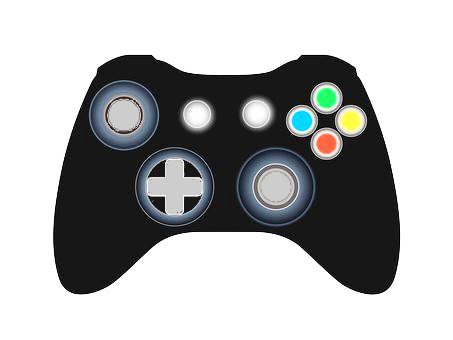
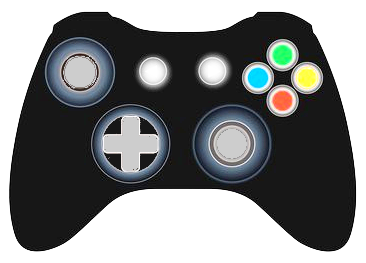
Unified width

diff --git a/src/App.tsx b/src/App.tsx
@@ -1,7 +1,8 @@
 import { useEffect, useState, useRef } from 'react';
-// import testImage from './assets/game_icon.png';
 // import testImage from './assets/computer_laptop.png';
-import testImage from './assets/kawahara.png';
+// import testImage from './assets/game_icon.png';
+import testImage from './assets/ai_icon.png';
+// import testImage from './assets/kawahara.png';
 import { generateStars, Star } from './hanabi';
 
 export default function App(){
@@ -28,26 +29,25 @@ export default function App(){
         // 画像を読み込み、canvasに描画
         const img = new Image();
         img.onload = () => {
-            // 元の画像の大きさ
+            // 元の画像の比率を保持したまま横幅を300pxに設定
             const originalWidth = img.width;
             const originalHeight = img.height;
-
-            // 新しい横幅と高さを計算
             const newWidth = 300;
             const newHeight = (originalHeight * newWidth) / originalWidth;
-            console.log({newHeight})
 
             // canvasの大きさを新しい大きさに合わせる
             canvas.width = newWidth;
             canvas.height = newHeight;
+
+            // 画像のリサイズと中心点の調整をして描画
             ctx.drawImage(img, 0, 0, newWidth, newHeight);
 
             // imageDataの大きさを記録しておく
-            setFireworkWidth(img.width);
-            setFireworkHeight(img.height);
+            setFireworkWidth(newWidth);
+            setFireworkHeight(newHeight);
 
             // ImageDataオブジェクトを取得
-            setImageData(ctx.getImageData(0, 0, img.width, img.height));
+            setImageData(ctx.getImageData(0, 0, newWidth, newHeight));
         };
         img.src = image;
     }
@@ -205,9 +205,10 @@ export default function App(){
     return (
         <>
             <canvas
+                id="canvas"
                 ref={canvasRef}
-                width={500}
-                height={500}
+                width={300}
+                height={300}
                 style={{
                     border: "black 1px solid"
                 }}
